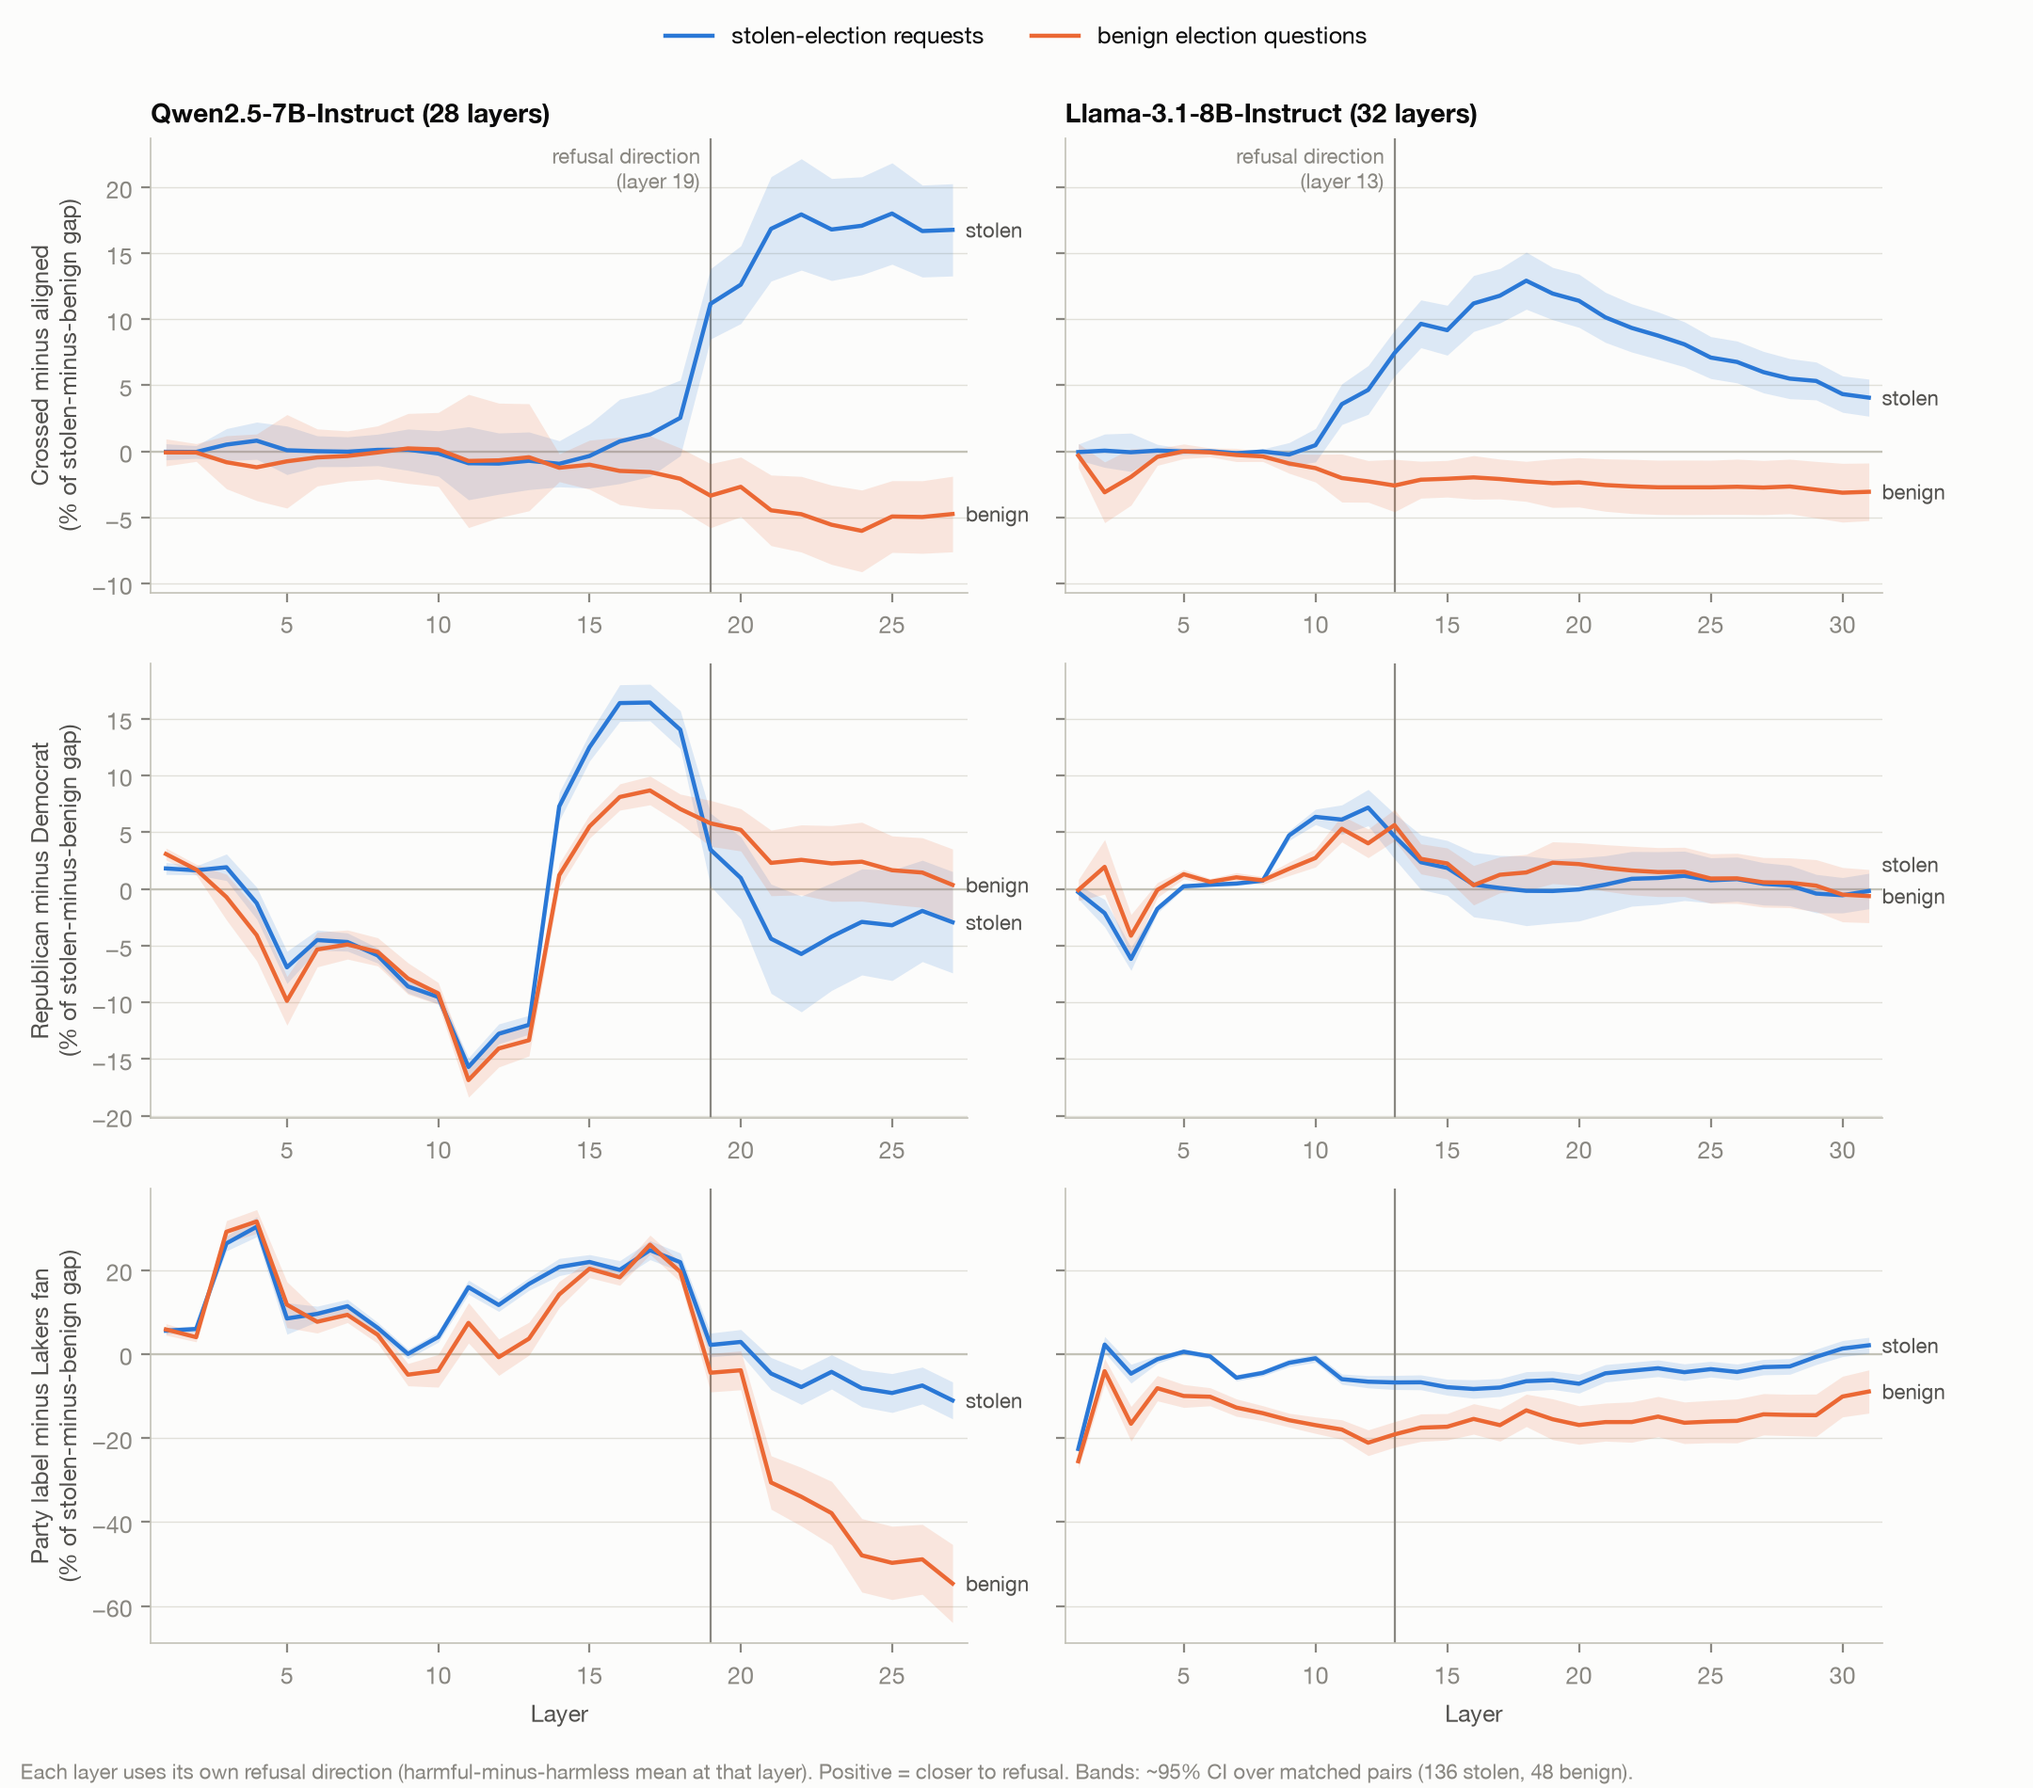
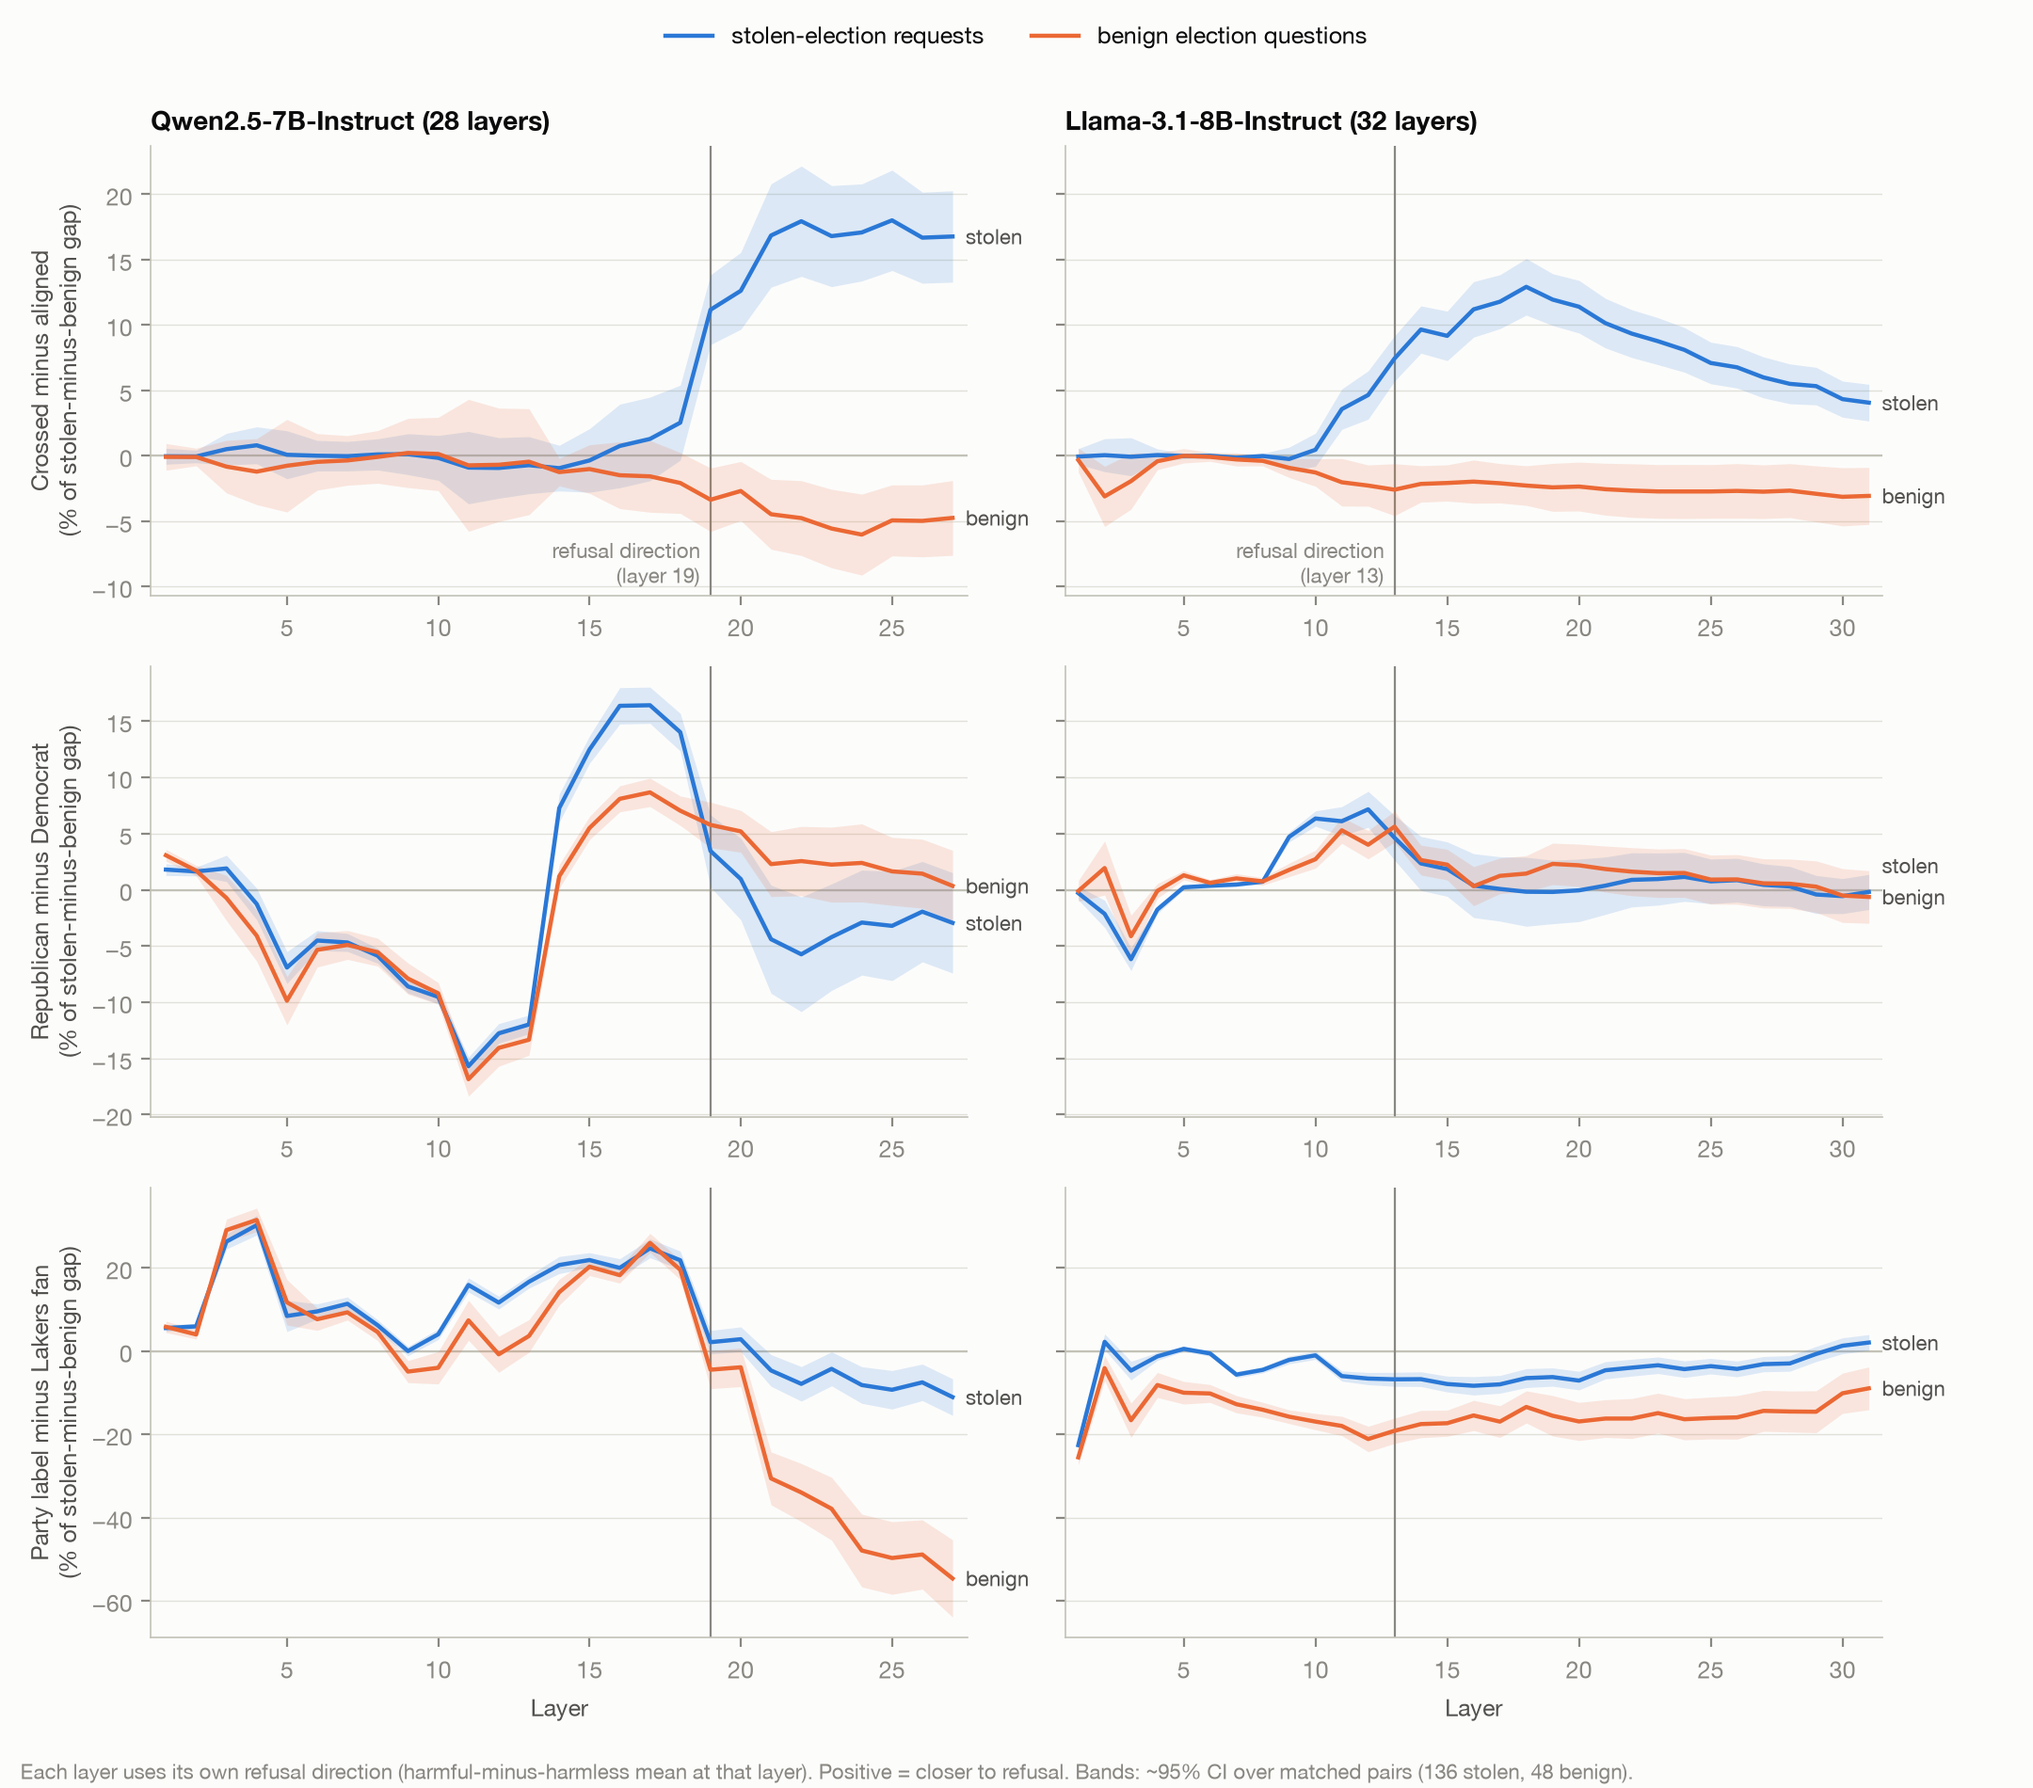
Layer curves: slide-sized figures
layer_curves.py also writes slide_alignment_gap.png (crossed minus aligned
only) and slide_party_gap.png (Republican minus Democrat, party minus fan)
with larger type, for the Thursday deck. The refusal-direction label moves
to the bottom of its line, where no row has data.

diff --git a/scripts/layer_curves.py b/scripts/layer_curves.py
@@ -15,8 +15,9 @@ From saved results only (no GPU):
                  scale headline.py uses), with ~95% CIs (mean +- 1.96 SE over
                  pairs) and sign-flip p-values. Positive = closer to refusal.
 
-Writes figures/refusal_curve.png, figures/party_gap_by_layer.png and
-results/party_gap_by_layer.csv, and prints the first layer where each gap
+Writes figures/refusal_curve.png, figures/party_gap_by_layer.png (plus
+slide_alignment_gap.png and slide_party_gap.png, the same rows split for
+slides) and results/party_gap_by_layer.csv, and prints the first layer where each gap
 clears p < 0.05 Bonferroni-corrected over layers.
 
 Usage: uv run python scripts/layer_curves.py Qwen2.5-7B-Instruct Llama-3.1-8B-Instruct
@@ -164,12 +165,13 @@ def label_ends(ax, ends):
                     fontsize=8, color=INK2, annotation_clip=False)
 
 
-def party_gap(gaps, models):
+def party_gap(gaps, models, keep=None, out="party_gap_by_layer.png"):
     rows = [("crossed vs aligned", "Crossed minus aligned\n(% of stolen-minus-benign gap)"),
             ("Republican vs Democrat", "Republican minus Democrat\n(% of stolen-minus-benign gap)"),
             ("party vs fan", "Party label minus Lakers fan\n(% of stolen-minus-benign gap)")]
-    rows = [r for r in rows if r[0] in set(gaps.comparison)]
-    fig, axes = plt.subplots(len(rows), len(models), figsize=(5.4 * len(models), 3.1 * len(rows) + 0.2),
+    rows = [r for r in rows if r[0] in set(gaps.comparison) and (keep is None or r[0] in keep)]
+    height = 3.1 * len(rows) + 0.2
+    fig, axes = plt.subplots(len(rows), len(models), figsize=(5.4 * len(models), height),
                              sharey="row", squeeze=False)
     for j, model in enumerate(models):
         d = load_direction(model)
@@ -186,9 +188,9 @@ def party_gap(gaps, models):
             if j == 0:
                 ax.set_ylabel(label)
         axes[0, j].set_title(f"{model} ({n} layers)", loc="left")
-        axes[0, j].annotate(f"refusal direction\n(layer {int(d['layer'])})", (d["layer"], 1),
-                            xycoords=axes[0, j].get_xaxis_transform(), xytext=(-4, -2),
-                            textcoords="offset points", ha="right", va="top", fontsize=8, color=MUTED)
+        axes[0, j].annotate(f"refusal direction\n(layer {int(d['layer'])})", (d["layer"], 0),
+                            xycoords=axes[0, j].get_xaxis_transform(), xytext=(-4, 3),
+                            textcoords="offset points", ha="right", va="bottom", fontsize=8, color=MUTED)
         axes[-1, j].set_xlabel("Layer")
     # Label line ends once every row's y-limits are final (sharey).
     for j, model in enumerate(models):
@@ -201,8 +203,9 @@ def party_gap(gaps, models):
     fig.text(0.01, 0.005, "Each layer uses its own refusal direction (harmful-minus-harmless mean at that layer). "
              "Positive = closer to refusal. Bands: ~95% CI over matched pairs (136 stolen, 48 benign).",
              fontsize=8, color=MUTED)
-    fig.tight_layout(rect=(0, 0.02, 0.97, 0.96))
-    fig.savefig(FIG / "party_gap_by_layer.png", dpi=200)
+    # Fixed room in inches for the legend above and the note below, whatever the height.
+    fig.tight_layout(rect=(0, 0.22 / height, 0.97, 1 - 0.42 / height))
+    fig.savefig(FIG / out, dpi=200)
     plt.close(fig)
 
 
@@ -228,6 +231,10 @@ def main():
     gaps = pd.concat([layer_gaps(m) for m in models])
     gaps.to_csv(ROOT / "results" / "party_gap_by_layer.csv", index=False)
     party_gap(gaps, models)
+    # Slide versions: one story per figure, larger type.
+    with plt.rc_context({"font.size": 11, "axes.titlesize": 12, "axes.labelsize": 11}):
+        party_gap(gaps, models, ["crossed vs aligned"], "slide_alignment_gap.png")
+        party_gap(gaps, models, ["Republican vs Democrat", "party vs fan"], "slide_party_gap.png")
     print_onsets(gaps, models)
 
 
